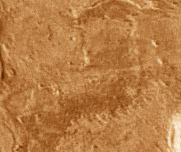
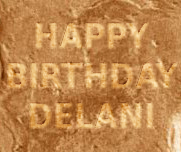
graffiti

Changed region(s): [[0.0276, 0.3947, 0.9945, 0.5789], [0.1657, 0.6579, 0.8564, 0.8421], [0.1934, 0.1316, 0.8287, 0.3158]]

diff --git a/breadcrumbs.js b/breadcrumbs.js
@@ -1,23 +1,20 @@
 /* TODO
 
 x split map into tiles
-- flicker alert
-- satelite
-- sateite shadow
-- zoom out by clicking satelite, zoom in by going somewhere
-- asteroids-like movement, with alerts only when reaching edge
+x flicker alert
+x satelite
+x sateite shadow
+x asteroids-like movement, with alerts only when reaching edge
 - slow moving stars and celestial objects in the background
-- after out of range alert, recalculate location to not show the alert again
-- disable mouse drag of images
-- disable mouse selection of images
-- control satelite with mousedown
+x after out of range alert, recalculate location to not show the alert again
+x disable mouse drag of images
+x disable mouse selection of images
+x control satelite with mousedown
 
-- aliens (3 groups), two of which leave edge of map
-- flowing water
 - tardis
 - waldo
 - carmen san diego
-- happy birthday delani
+x happy birthday delani
 - american flag
 - NASA rover moving slowly + tracks
 - other satelites flying around
@@ -26,6 +23,10 @@ x split map into tiles
 - calendrier mars
 - chocolat mars
 - taurentula
+- peruvian bird drawings
+- flying spagghetti monster
+- hieroglyphs
+- tintin
 
 */
 
@@ -42,10 +43,11 @@ function init(){
 
     initmap();
 
-    //$('#main').mousedown(handle_down);
-    //$('#main').mouseup(handle_up);
-    $('#main').mousemove(handle_move);
+    $('#main').mousedown(handle_mouse(5));
+    $('#main').mouseup(handle_mouse(2));
+    $('#main').mousemove(handle_mouse(1));
 
+    setTimeout(info_messages,1000);
 }
 
 var map_tds = false;
@@ -55,25 +57,32 @@ function initmap(){
     for(x = 0; x < 78; x++){
         var tr = $('<tr>');
         for(y = 0; y < 131; y++){
-            var td = $('<td>').appendTo(tr).data(true);
+            var td = $('<td>').appendTo(tr).data('empty',true);
         }
         tr.appendTo($('#map'));
     }
     map_tds = $('#map td');
+    var h = $('#map').height();
+    var w = $('#map').width();
+    $('#map').css({
+        left: -w/2,
+        top: -h/2
+    });
+    loadtiles(w/2,h/2);
 }
 
-function loadtile(x, y){
-    var i = y * 131 + x;
+var active_tiles = {};
+
+function loadtile(i){
     var td = $(map_tds[i]);
-    if(!td.data()){
+    if(!td.data('empty')){
         return;
     }
-    $('<img>').attr({
-        src: 'map/tile-' + i + '.jpeg',
-        width: 181,
-        height: 152
-    }).appendTo(td).on('dragstart', function(ev){ ev.preventDefault(); });
-     td.data(false);
+    td.css({
+        'background-image': 'url(map/tile-' + i + '.jpeg)'
+    });
+    td.attr('i', i);
+    td.data('empty',false); 
 }
 
 last_load_x = -1;
@@ -84,41 +93,43 @@ function loadtiles(posx, posy){
     if(posx == last_load_x && posy == last_load_y){
         return;
     }
-    console.log('loadtiles',posx,posy);
     last_load_x = posx;
     last_load_y = posy;
     var x;
     var y;
-    var extra = 1;
+    var extra = 2;
     for(x = posx - extra; x < posx + 5 + extra; x++){
         for(y = posy - extra; y < posy + 4 + extra; y++){
-            loadtile(x, y);
+            var i = y * 131 + x; 
+            loadtile(i);
         }
     }
 }
 
-function handle_move(ev){
-    if(ev.buttons == 1){
-        var offset = $("#main").offset();
-        var h = $('#main').height();
-        var w = $('#main').width();
-        var pt =
-            [ev.pageX - offset.left - w/2,
-             ev.pageY - offset.top - h/2];
-        impulse_to(pt);
+function handle_mouse(amult){
+    return function(ev){
+        if(ev.which == 1 && (ev.buttons == 1 || ev.buttons == undefined)){
+            var offset = $("#main").offset();
+            var h = $('#main').height();
+            var w = $('#main').width();
+            var pt =
+                [ev.pageX - offset.left - w/2,
+                 ev.pageY - offset.top - h/2];
+            impulse_to(pt, amult);
+        }
+        ev.preventDefault();
     }
-    ev.preventDefault();
 }
 
 var impulse_timeout = false;
 var impulse_speed = [0,0];
-function impulse_to(pos){
+function impulse_to(pos, amult){
 
     var h = $('#main').height();
     var w = $('#main').width();
 
     var multiplier = 0.05;
-   impulse_acceleration = pos;
+   impulse_acceleration = [pos[0] * amult, pos[1] * amult];
 
     if(impulse_timeout){
         return;
@@ -128,9 +139,9 @@ function impulse_to(pos){
     ticker = function(){
         var pos = $('#map').position();
 
-        var multiplier = 0.1;
+        var multiplier = 0.02;
         var decay = 0.99;
-        var spmult = 1/120;
+        var spmult = 1/160;
 
         var xdiff = impulse_acceleration[0] * multiplier;
         var ydiff = impulse_acceleration[1] * multiplier;
@@ -139,8 +150,12 @@ function impulse_to(pos){
         impulse_acceleration[0] -= xdiff;
         impulse_acceleration[1] -= ydiff;
 
-        var posx = -cappos(pos.left - impulse_speed[0] * spmult, -$('#map').width()+w, 0);
-        var posy = -cappos(pos.top - impulse_speed[1] * spmult, -$('#map').height()+h, 0);
+        var posx = -cappos(pos.left - impulse_speed[0] * spmult, -$('#map').width()+w, 0, function(){
+            impulse_speed[0] = impulse_acceleration[0] = 0; 
+        });
+        var posy = -cappos(pos.top - impulse_speed[1] * spmult, -$('#map').height()+h, 0, function(){
+            impulse_speed[1] = impulse_acceleration[1] = 0; 
+        });
 
         loadtiles(posx, posy);
 
@@ -149,7 +164,7 @@ function impulse_to(pos){
             top: -posy
         });
 
-        if(impulse_speed[0] < 1 && impulse_speed[1] < 1){
+        if(Math.abs(impulse_speed[0]) < 1 && Math.abs(impulse_speed[1]) < 1){
             clearTimeout(impulse_timeout);
             impulse_timeout = false;
         }else{
@@ -168,7 +183,7 @@ function cap(x, a, b){
     return x < a ? a : x > b ? b : x;
 }
 
-function cappos(x, a, b){
+function cappos(x, a, b, f){
     if(x < a){
         x = a;
     }else if (x > b){
@@ -176,21 +191,33 @@ function cappos(x, a, b){
     }else{
         return x;
     }
+    f();
     show_alert('GRID COORDINATE OUT OF RANGE');
     return x;
 }
 
-var alert_timeout = false;
-function show_alert(message){
-    if(alert_timeout){
-        clearTimeout(alert_timeout);
-        alert_timeout = false;
+function info_messages(){
+    var msg;
+    if(messages.length == 0){
+        msg = [extra_messages[Math.floor(Math.random() * extra_messages.length)], Math.random() * 120 + 120];
+    }else{
+        msg = messages.shift();
     }
-    $('#alert').text(message);
-    $('#alert').show();
-    alert_timeout = setTimeout(function(){
-        $('#alert').fadeOut();
-    }, 2000);
+    show_alert(msg[0]);
+    setTimeout(info_messages, msg[1]*1000);
+}
+
+function show_alert(message){
+    var al = $('#alert');
+    al.hide();
+    al.finish();
+    al.text(message);
+    al.fadeIn(50).delay(200).
+        fadeOut(50).delay(50).
+        fadeIn(50).delay(200).
+        fadeOut(50).delay(50).
+        fadeIn(50).delay(2000).
+        fadeOut(200);
 }
 
 function dist(a, b){
@@ -200,3 +227,17 @@ function dist(a, b){
 }
 
 $(init);
+
+messages = [
+    ["ACQUIRING CONTROL OF SATELLITE", 7],
+    ["SATELLITE CONTROL ACQUIRED", 7],
+    ["WELCOME TO THE PLANET MARS", 7],
+    ["DO NOT LEAVE THE VALLES MARINERIS REGION", 70]
+];
+
+extra_messages = [
+    "BEWARE OF INVISIBLE UNICORNS",
+    "SOLAR IRRADIANCE IS CURRENTLY  589.2 W/M^2",
+    "TEMPERATURE IS CURRENTLY -30 F",
+    "SPONSORED BY JOHNNYCAB! WE HOPE YOU'VE ENJOYED THE RIDE"
+];

diff --git a/breadcrumbs.css b/breadcrumbs.css
@@ -30,6 +30,7 @@ body {
     top: 50%;
     left: 50%;
     overflow: hidden;
+    background-image: url("loading.png");
 }
 
 #map {
@@ -46,15 +47,26 @@ body {
     background-image: url("loading.png");
 }
 
-#hero {
+#satelite {
     position: absolute;
-    width: 50px;
-    height: 50px;
-    background-color: red;
-    margin-top: -25px;
-    margin-left: -25px;
+    width: 100px;
+    height: 127px;
+    margin-top: -63px;
+    margin-left: -50px;
     top: 50%;
     left: 50%;
+    background-image: url("satelite.png");
+}
+
+#shadow {
+    position: absolute;
+    width: 30px;
+    height: 38px;
+    margin-top: -15px;
+    margin-left: -19px;
+    top: 50%;
+    left: 65%;
+    background-image: url("satelite-shadow.png");
 }
 
 #alert {
@@ -64,7 +76,7 @@ body {
     font-weight: bold;
     top: 50%;
     line-height: 50px;
-    font-family: fixed; /* TODO: monospace or fixed? */
+    font-family: monospace;
     text-align: center;
     color: #cc1111;
     font-size: 40px;

diff --git a/index.html b/index.html
@@ -6,7 +6,8 @@
   <body>
     <div id="main">
       <table id="map" cellpadding="0" cellspacing="0"></table>
-      <div id="hero">:)</div>
+      <div id="satelite"></div>
+      <div id="shadow"></div>
     </div>
     <div id="alert"></div>
     <script src="jquery-1.10.2.min.js"></script>
